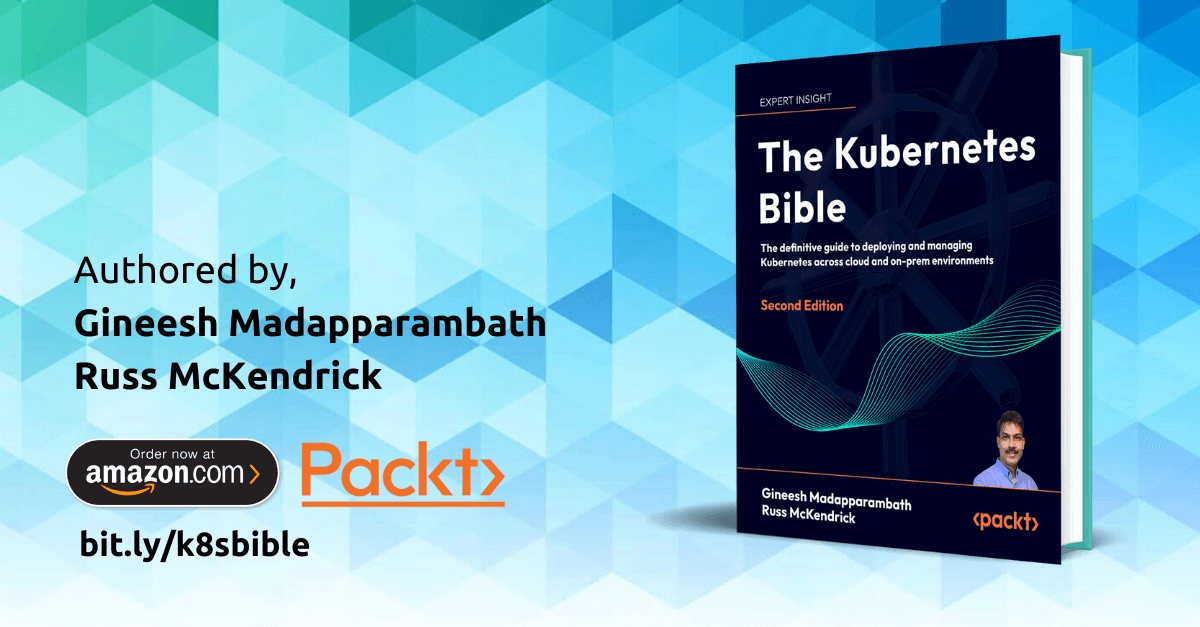
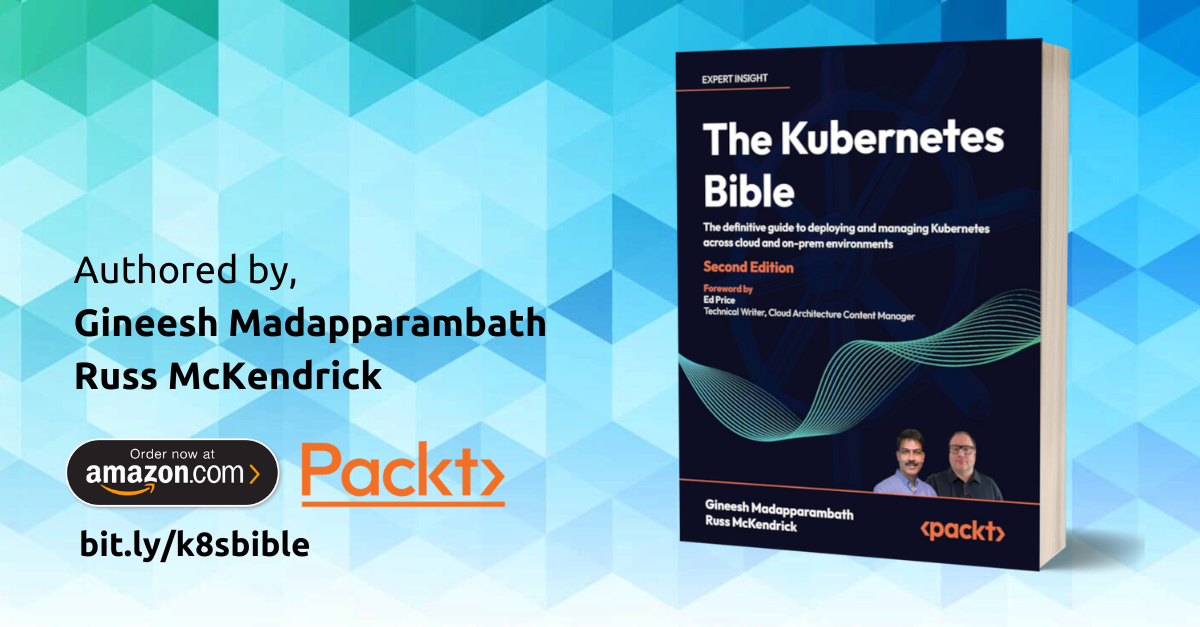
update

Changed region(s): [[0.5242, 0.0606, 0.9558, 0.9091]]

diff --git a/_pages/books/the-kubernetes-bible-second-edition.md b/_pages/books/the-kubernetes-bible-second-edition.md
@@ -5,7 +5,7 @@ title: The Kubernetes Bible, Second Edition
 subtitle: The definitive guide to deploying and managing Kubernetes across cloud and on-prem environments.
 #author: gini
 categories: [ cloud ]
-book_image: "/assets/images/books/k8sbible/B22019_k8s2E-400.png"
+book_image: "/assets/images/books/k8sbible/k8sbook-transparent-3d-v1.png"
 book_background: "/assets/images/books/k8sbible/header-bg.jpg"
 book_preview_image: "/assets/images/books/k8sbible/k8sbible2E-preview-1.png"
 #tags: [cloud, automation, containers, kubernetes]
@@ -22,13 +22,13 @@ book_links:
 
 authors:
   - name: Gineesh Madapparambath
-    image: "/assets/images/books/k8sbible/gineesh-250x250.png"
+    image: "/assets/images/books/authors/gineesh-250x250.png"
     descriptions:
         - "[**Gineesh**](https://www.linkedin.com/in/gineesh/) has over 15+ years of experience in IT Service Management and consultancy with experience in planning, deploying and supporting Linux based projects."
         - "He has designed, developed and deployed Automation solutions based on Ansible and Ansible Automation Platform (Formerly Ansible Tower), for bare metal/Virtual server build, patching, license management, Network Operations and custom monitoring. Gineesh has coordinated, designed and deployed servers in data centers globally and has cross-cultural experience in classic, private cloud (OpenStack, VMWare)virtual and public cloud environments (AWS, Azure, Google Cloud). Gineesh has handled multiple roles such as Systems Engineer, Automation Specialist, Infrastructure Designer and content author."
         - "His primary focus is on IT and application automation using Ansible, containerization using OpenShift and Kubernetes and Infrastructure automation using Terraform."
   - name: Russ McKendrick
-    image: "/assets/images/books/k8sbible/russ-250x250.jpeg"
+    image: "/assets/images/books/authors/russ-250x250.jpeg"
     descriptions:
         - "[**Russ McKendrick**](https://www.linkedin.com/in/russmckendrick) is an experienced DevOps practitioner and system administrator with a passion for automation and containers. He has been working in IT and related industries for the better part of 30 years. During his career, he has had responsibilities in many different sectors, including first-line, second-line, and senior support in client-facing and internal teams for small and large organizations."
         - "He works almost exclusively with Linux, using open source systems and tools across dedicated hardware and virtual machines hosted in public and private clouds at Node4, where he holds the title of practice manager (SRE and DevOps). He also buys way too many records!"

diff --git a/_pages/books/ansible-for-real-life-automation.md b/_pages/books/ansible-for-real-life-automation.md
@@ -5,9 +5,9 @@ title: Ansible for Real Life Automation
 subtitle: A complete Ansible handbook filled with real life IT automation use cases
 #author: gini
 categories: [ cloud ]
-book_image: "/assets/images/books/k8sbible/B22019_k8s2E-400.png"
-book_background: "/assets/images/books/k8sbible/header-bg.jpg"
-book_preview_image: "/assets/images/books/k8sbible/k8sbible2E-preview-1.png"
+book_image: "/assets/images/books/ansible-real-life/ansiblebook-transparent-3d-v1.png"
+book_background: "/assets/images/books/ansible-real-life/header-bg.jpg"
+book_preview_image: "/assets/images/books/ansible-real-life/ansiblebook.png"
 #tags: [cloud, automation, containers, kubernetes]
 show-avatar: false
 permalink: /ansible-for-real-life-automation
@@ -15,14 +15,14 @@ featured: false
 hidden: false
 # comments: true
 meta_description: "A complete Ansible handbook filled with real life IT automation use cases"
-meta_keywords: "Kubernetes Book, Kubernetes Hand Book, Best Kubernetes Book, The Kubernetes Bible"
+meta_keywords: "Ansible Real Life Use cases, Ansible Automation, Ansible Hand Book, Ansible for Enterprise"
 meta_author: "Gineesh Madapparambath"
 book_links:
   - name: Buy
 
 authors:
   - name: Gineesh Madapparambath
-    image: "/assets/images/books/k8sbible/gineesh-250x250.png"
+    image: "/assets/images/books/authors/gineesh-250x250.png"
     descriptions:
         - "[**Gineesh**](https://www.linkedin.com/in/gineesh/) has over 15+ years of experience in IT Service Management and consultancy with experience in planning, deploying and supporting Linux based projects."
         - "He has designed, developed and deployed Automation solutions based on Ansible and Ansible Automation Platform (Formerly Ansible Tower), for bare metal/Virtual server build, patching, license management, Network Operations and custom monitoring. Gineesh has coordinated, designed and deployed servers in data centers globally and has cross-cultural experience in classic, private cloud (OpenStack, VMWare)virtual and public cloud environments (AWS, Azure, Google Cloud). Gineesh has handled multiple roles such as Systems Engineer, Automation Specialist, Infrastructure Designer and content author."

diff --git a/_pages/ansible/ansible-awx-cli.md b/_pages/ansible/ansible-awx-cli.md
@@ -1,0 +1,67 @@
+---
+layout: post
+title: Ansible awx cli
+categories: [ ansible ]
+tags: [ansible]
+show-avatar: false
+permalink: awx-cli
+featured: false
+hidden: false
+showindex: true
+---
+
+Note: This notes are based on the AAP 2.5
+
+## Installation
+
+```shell
+# On Red Hat Enterprise Linux 8, the Controller CLI can be installed via dnf:
+dnf install --enablerepo=ansible-automation-platform-2.4-for-rhel-8-x86_64-rpms automation-controller-cli
+
+# On Red Hat Enterprise Linux 9, the Controller CLI can be installed via dnf:
+dnf install --enablerepo=ansible-automation-platform-2.5-for-rhel-9-x86_64-rpms automation-controller-cli
+```
+
+Setup environment variables (or pass it via CLI)
+
+```shell
+export AWXKIT_API_BASE_PATH='/api/controller/'
+```
+
+Fetch token from awx cli
+
+```shell
+$ awx login \
+    --conf.host https://aap25.lab.iamgini.com \
+    --conf.username admin \
+    --conf.password aapadmin \
+    -k
+```
+
+You can also the environment variables as follows:
+
+```shell
+export AWXKIT_API_BASE_PATH='/api/controller/'
+export CONTROLLER_HOST='https://aap25.lab.iamgini.com'
+export CONTROLLER_VERIFY_SSL=false
+export CONTROLLER_USERNAME=admin
+export CONTROLLER_PASSWORD=aapadmin
+export CONTROLLER_OAUTH_TOKEN='eRVUrESPle657GUyRVSvd5E0rdJ8VB'
+```
+
+Fetch the token and execute the commands.
+(You can also fetch token from the [AAP WEBUI](https://docs.redhat.com/en/documentation/red_hat_ansible_automation_platform/2.5/html/access_management_and_authentication/gw-token-based-authentication#proc-controller-apps-create-tokens))
+
+```shell
+awx --conf.host https://aap25.lab.iamgini.com/ \
+    --conf.token 'YOUR-TOKEN-HERE'
+    --conf.username admin --conf.password aapadmin \
+    -k \
+    users list
+```
+
+
+## References
+
+- [How to get the awx CLI to work with AAP 2.5 GA](https://access.redhat.com/solutions/7091403)
+- [AWX Command Line Interface](https://docs.ansible.com/automation-controller/latest/html/controllercli/index.html) (v4.5)
